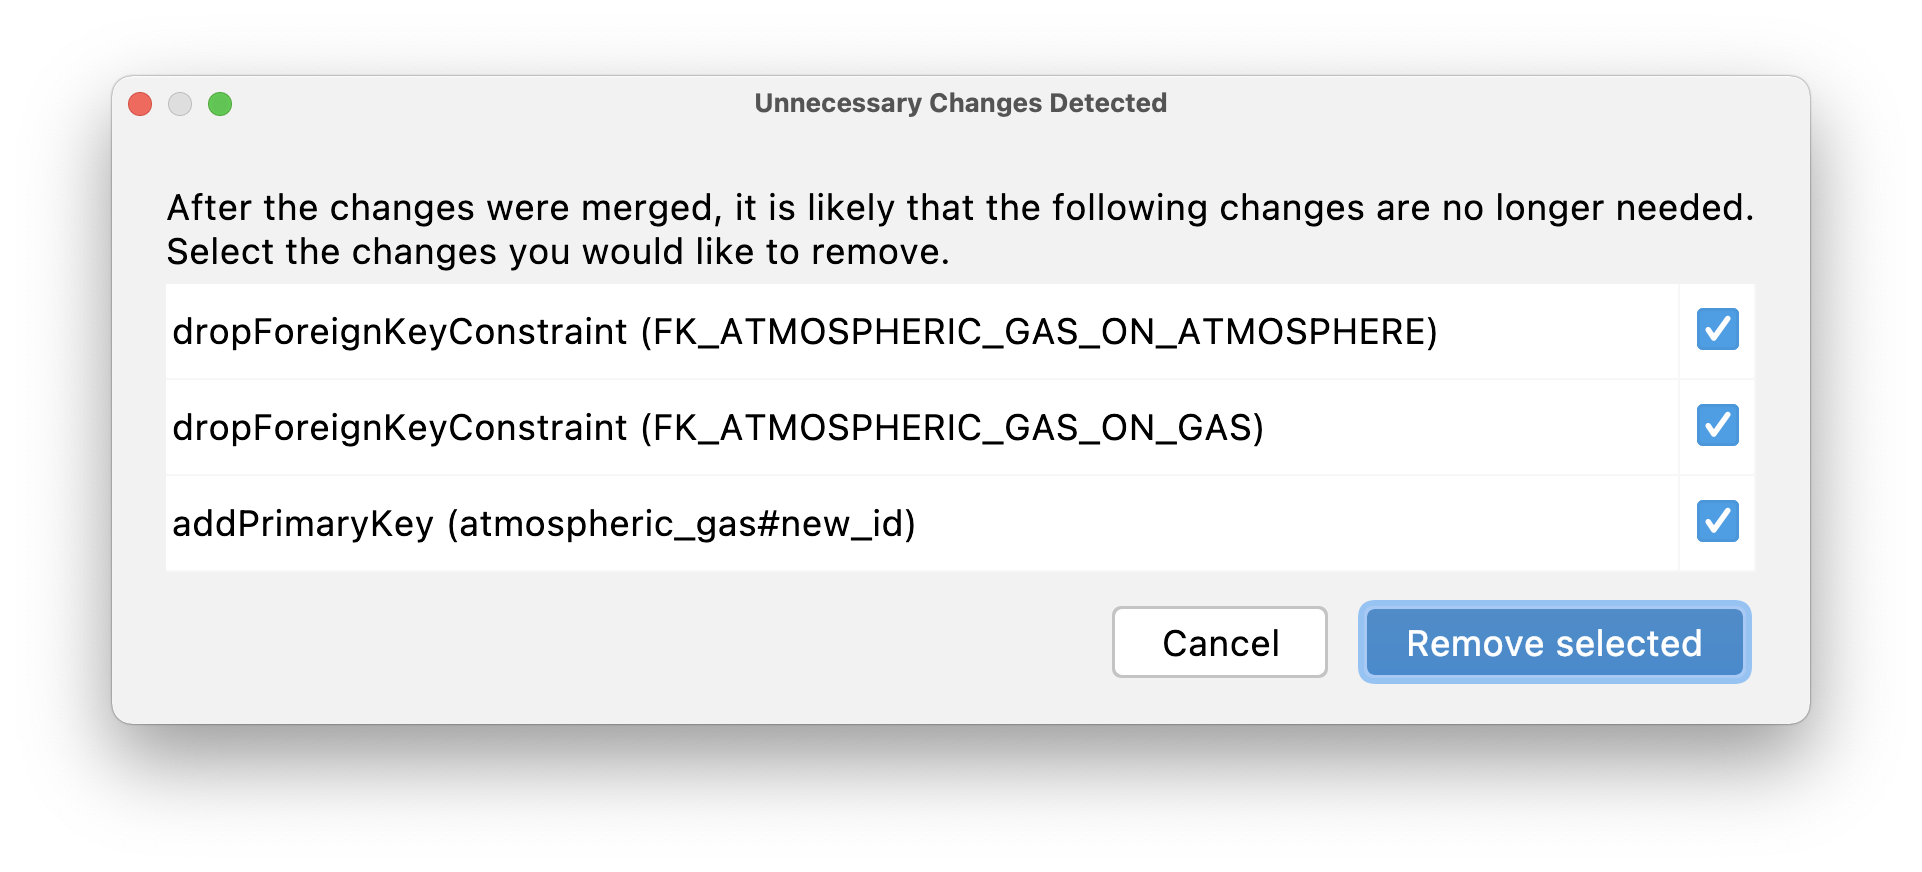
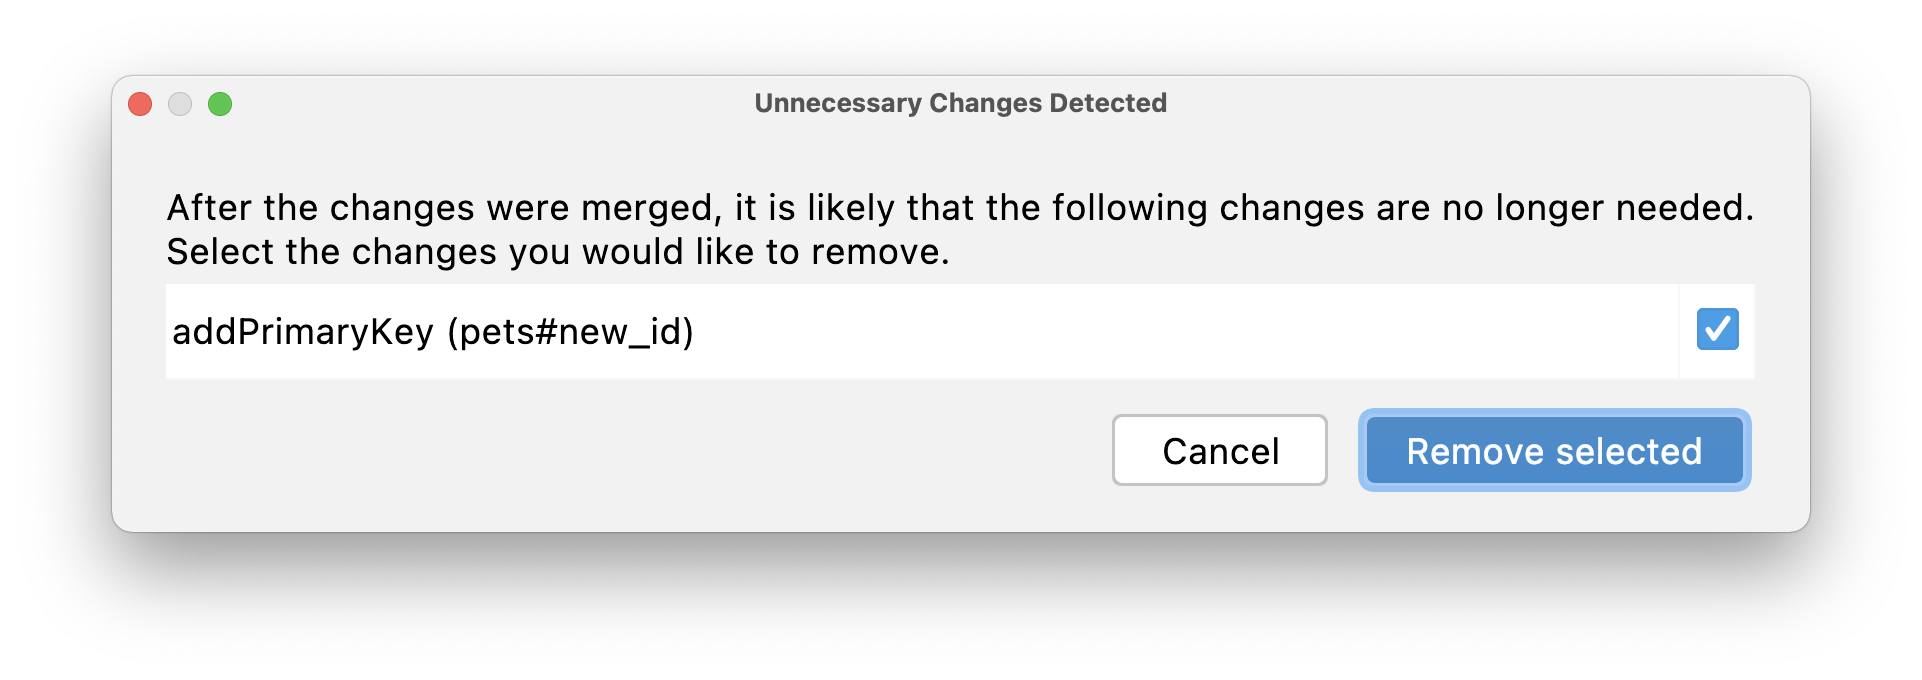
Merging statements, iteration 1 #19

diff --git a/database-versioning/database-versioning.md b/database-versioning/database-versioning.md
@@ -143,7 +143,7 @@ You can also configure whether each change type is placed in the primary/seconda
 
 #### Merging statements
 
-Basically, renaming something leads to the two statements:
+Basically, renaming schema elements, such as table name, column name, etc., leads to the two statements:
 
 - Drop an existing value
 - Add the new one
@@ -154,7 +154,7 @@ But JPA Buddy can replace such statements with the single rename or modify state
 <iframe width="560" height="315" src="https://www.youtube.com/embed/nhGhcpdqTMs" title="YouTube video player" frameborder="0" allow="accelerometer; autoplay; clipboard-write; encrypted-media; gyroscope; picture-in-picture" allowfullscreen></iframe>
 </div>
 
-Since nothing is being dropped now, some statements may become irrelevant. Immediately after merging the changes, you will be able to choose which changes no longer make sense:
+Since nothing is being dropped now, some statements may become irrelevant. Immediately after merging the changes, you will be able to choose which changes no longer make sense. For example, after renaming an id column (rather than dropping an old value and adding a new one), there is no need to add a new primary key for it:
 
 ![unnecessary_changes](img/unnecessary_changes.jpeg)
 
